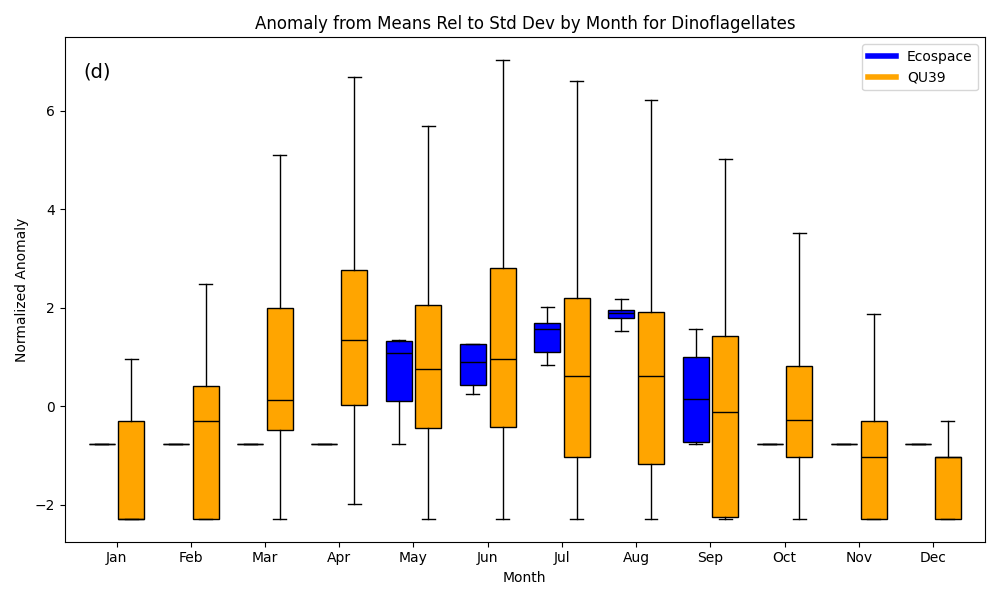
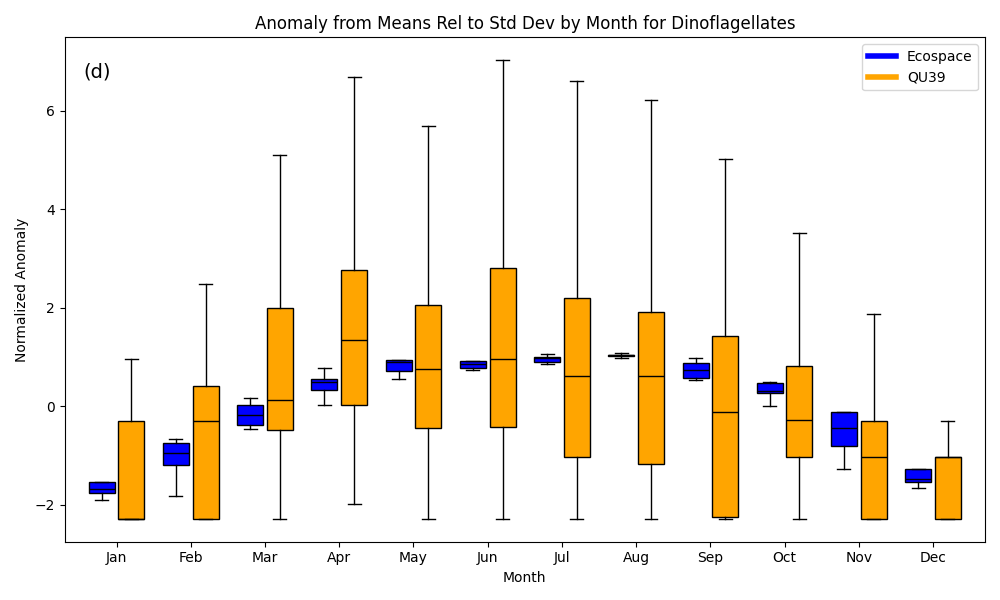
fixes to qu39 analysis

diff --git a/scripts/PublicationScripts/Ecospace Analysis - 3b - QU39 vs Ecospace vs SSC v2.py b/scripts/PublicationScripts/Ecospace Analysis - 3b - QU39 vs Ecospace vs SSC v2.py
@@ -127,27 +127,37 @@ def calculate_anomalies(df, valuefield, groupon):
 
     return df
 
-def aggregate_monthly_means(df, value_fields, groupby_time='closest_ecospace_time'):
+def aggregate_means(df, value_fields, groupby_time='closest_ecospace_time', level='monthly'):
     """
-    Aggregate the log-transformed fields by year and month.
+    Aggregate fields by either month or week.
 
     Parameters:
         df : pd.DataFrame
         value_fields : list of str
-            Columns to aggregate (e.g., ['logQU39', 'log_PP2-NAN', 'log_ssc-FLA'])
+            Columns to aggregate.
         groupby_time : str
-            Time field to group by (typically 'closest_ecospace_time')
+            Datetime field to group by.
+        level : str
+            One of {'monthly', 'weekly'}.
 
     Returns:
-        pd.DataFrame with columns: year, month, mean_<fieldname> for each field
+        pd.DataFrame
     """
     df = df.copy()
     df[groupby_time] = pd.to_datetime(df[groupby_time])
     df['year'] = df[groupby_time].dt.year
-    df['month'] = df[groupby_time].dt.month
 
-    grouped = df.groupby(['year', 'month'])[value_fields].mean().reset_index()
-    grouped.columns = ['year', 'month'] + [f'mean_{col}' for col in value_fields]
+    if level == 'monthly':
+        df['period'] = df[groupby_time].dt.month
+        group_keys = ['year', 'period']
+    elif level == 'weekly':
+        df['period'] = df[groupby_time].dt.isocalendar().week
+        group_keys = ['year', 'period']
+    else:
+        raise ValueError("Unsupported aggregation level. Use 'monthly' or 'weekly'.")
+
+    grouped = df.groupby(group_keys)[value_fields].mean().reset_index()
+    grouped.columns = group_keys + [f'mean_{col}' for col in value_fields]
     return grouped
 
 def compute_model_stats(obs, model):
@@ -194,7 +204,21 @@ def compute_model_stats(obs, model):
     }
 
 
-def run_model_statistics(df, model_obs_pairs):
+def run_model_statistics(df, model_obs_pairs, use_anomalies=True, aggregation_level='monthly'):
+    """
+    Compute model-vs-observation statistics.
+
+    Parameters:
+        df : pd.DataFrame
+        model_obs_pairs : list of dicts
+        use_anomalies : bool
+            If True, uses normalized anomaly fields.
+        aggregation_level : str
+            One of {'monthly', 'weekly', 'none'}.
+
+    Returns:
+        pd.DataFrame
+    """
     results = []
 
     for pair in model_obs_pairs:
@@ -204,25 +228,43 @@ def run_model_statistics(df, model_obs_pairs):
         ecospace_field = pair['ecospace']
         ssc_field = pair['ssc']
 
-        # Filter for this group
+        if use_anomalies:
+            obs_field += '_anomaly_fr_mean_std_norm'
+            ecospace_field += '_anomaly_fr_mean_std_norm'
+            if ssc_field:
+                ssc_field += '_anomaly_fr_mean_std_norm'
+
         df_sub = df[df['class'].isin(taxon if isinstance(taxon, list) else [taxon])]
         df_sub = df_sub[pd.to_datetime(df_sub['closest_ecospace_time']).dt.year >= 1980]
 
-        # Aggregate to year-month
-        monthly = aggregate_monthly_means(df_sub, [obs_field, ecospace_field] + ([ssc_field] if ssc_field else []))
+        if aggregation_level in ['monthly', 'weekly']:
+            value_fields = [obs_field, ecospace_field] + ([ssc_field] if ssc_field else [])
+            grouped = aggregate_means(df_sub, value_fields, level=aggregation_level)
 
-        # Calculate stats
-        ecospace_stats = compute_model_stats(monthly[f'mean_{obs_field}'].values, monthly[f'mean_{ecospace_field}'].values)
+            obs_vals = grouped[f'mean_{obs_field}'].values
+            eco_vals = grouped[f'mean_{ecospace_field}'].values
+            ssc_vals = grouped[f'mean_{ssc_field}'].values if ssc_field else None
+
+        elif aggregation_level == 'none':
+            obs_vals = df_sub[obs_field].values
+            eco_vals = df_sub[ecospace_field].values
+            ssc_vals = df_sub[ssc_field].values if ssc_field else None
+
+        else:
+            raise ValueError("aggregation_level must be 'monthly', 'weekly', or 'none'.")
+
+        ecospace_stats = compute_model_stats(obs_vals, eco_vals)
         ecospace_stats.update({'Group': group, 'Model': 'Ecospace'})
-
         results.append(ecospace_stats)
 
         if ssc_field:
-            ssc_stats = compute_model_stats(monthly[f'mean_{obs_field}'].values, monthly[f'mean_{ssc_field}'].values)
+            ssc_stats = compute_model_stats(obs_vals, ssc_vals)
             ssc_stats.update({'Group': group, 'Model': 'SSC'})
             results.append(ssc_stats)
 
     return pd.DataFrame(results)
+
+
 
 
 def plot_monthly_boxplot(
@@ -388,14 +430,14 @@ def main():
 
     # Derive values
     df['QU39'] = df['measurementValue']
-    df['logQU39'] = np.log(df['measurementValue'].clip(lower=1))  # +1 for safety
-    df['log_PP1-DIA'] = np.log(df['PP1-DIA'].clip(lower=1))
-    df['log_PP2-NAN'] = np.log(df['PP2-NAN'].clip(lower=1))
-    df['log_PP3-PIC'] = np.log(df['PP3-PIC'].clip(lower=1))
-    df['log_PZ2-DIN'] = np.log(df['PZ2-DIN'].clip(lower=1))
-    df['log_ssc-DIA'] = np.log(df['ssc-DIA'].clip(lower=1))
-    df['log_ssc-FLA'] = np.log(df['ssc-FLA'].clip(lower=1))
-    df['log_ssc-CIL'] = np.log(df['ssc-CIL'].clip(lower=1))
+    df['logQU39'] = np.log(df['measurementValue'].clip(lower=0.01))  # +1 for safety
+    df['log_PP1-DIA'] = np.log(df['PP1-DIA'].clip(lower=0.01))
+    df['log_PP2-NAN'] = np.log(df['PP2-NAN'].clip(lower=0.01))
+    df['log_PP3-PIC'] = np.log(df['PP3-PIC'].clip(lower=0.01))
+    df['log_PZ2-DIN'] = np.log(df['PZ2-DIN'].clip(lower=0.01))
+    df['log_ssc-DIA'] = np.log(df['ssc-DIA'].clip(lower=0.01))
+    df['log_ssc-FLA'] = np.log(df['ssc-FLA'].clip(lower=0.01))
+    df['log_ssc-CIL'] = np.log(df['ssc-CIL'].clip(lower=0.01))
 
     # Compute anomalies
     df = calculate_anomalies(df, 'logQU39', 'class')
@@ -492,11 +534,14 @@ def main():
             'ssc': None
         }
     ]
-    stats_df = run_model_statistics(df, model_obs_pairs)
 
+    stats_df = run_model_statistics(df, model_obs_pairs, use_anomalies=True, aggregation_level='monthly')
 
     print('stats generated!')
     print(stats_df)
+    stats_outfile = os.path.join(out_p, f"{model_run}_ModelStats_ObsVsModel.csv")
+    stats_df.to_csv(stats_outfile, index=False)
+    print(f"[Saved] Model statistics written to: {stats_outfile}")
     print('DONE')
 
 
